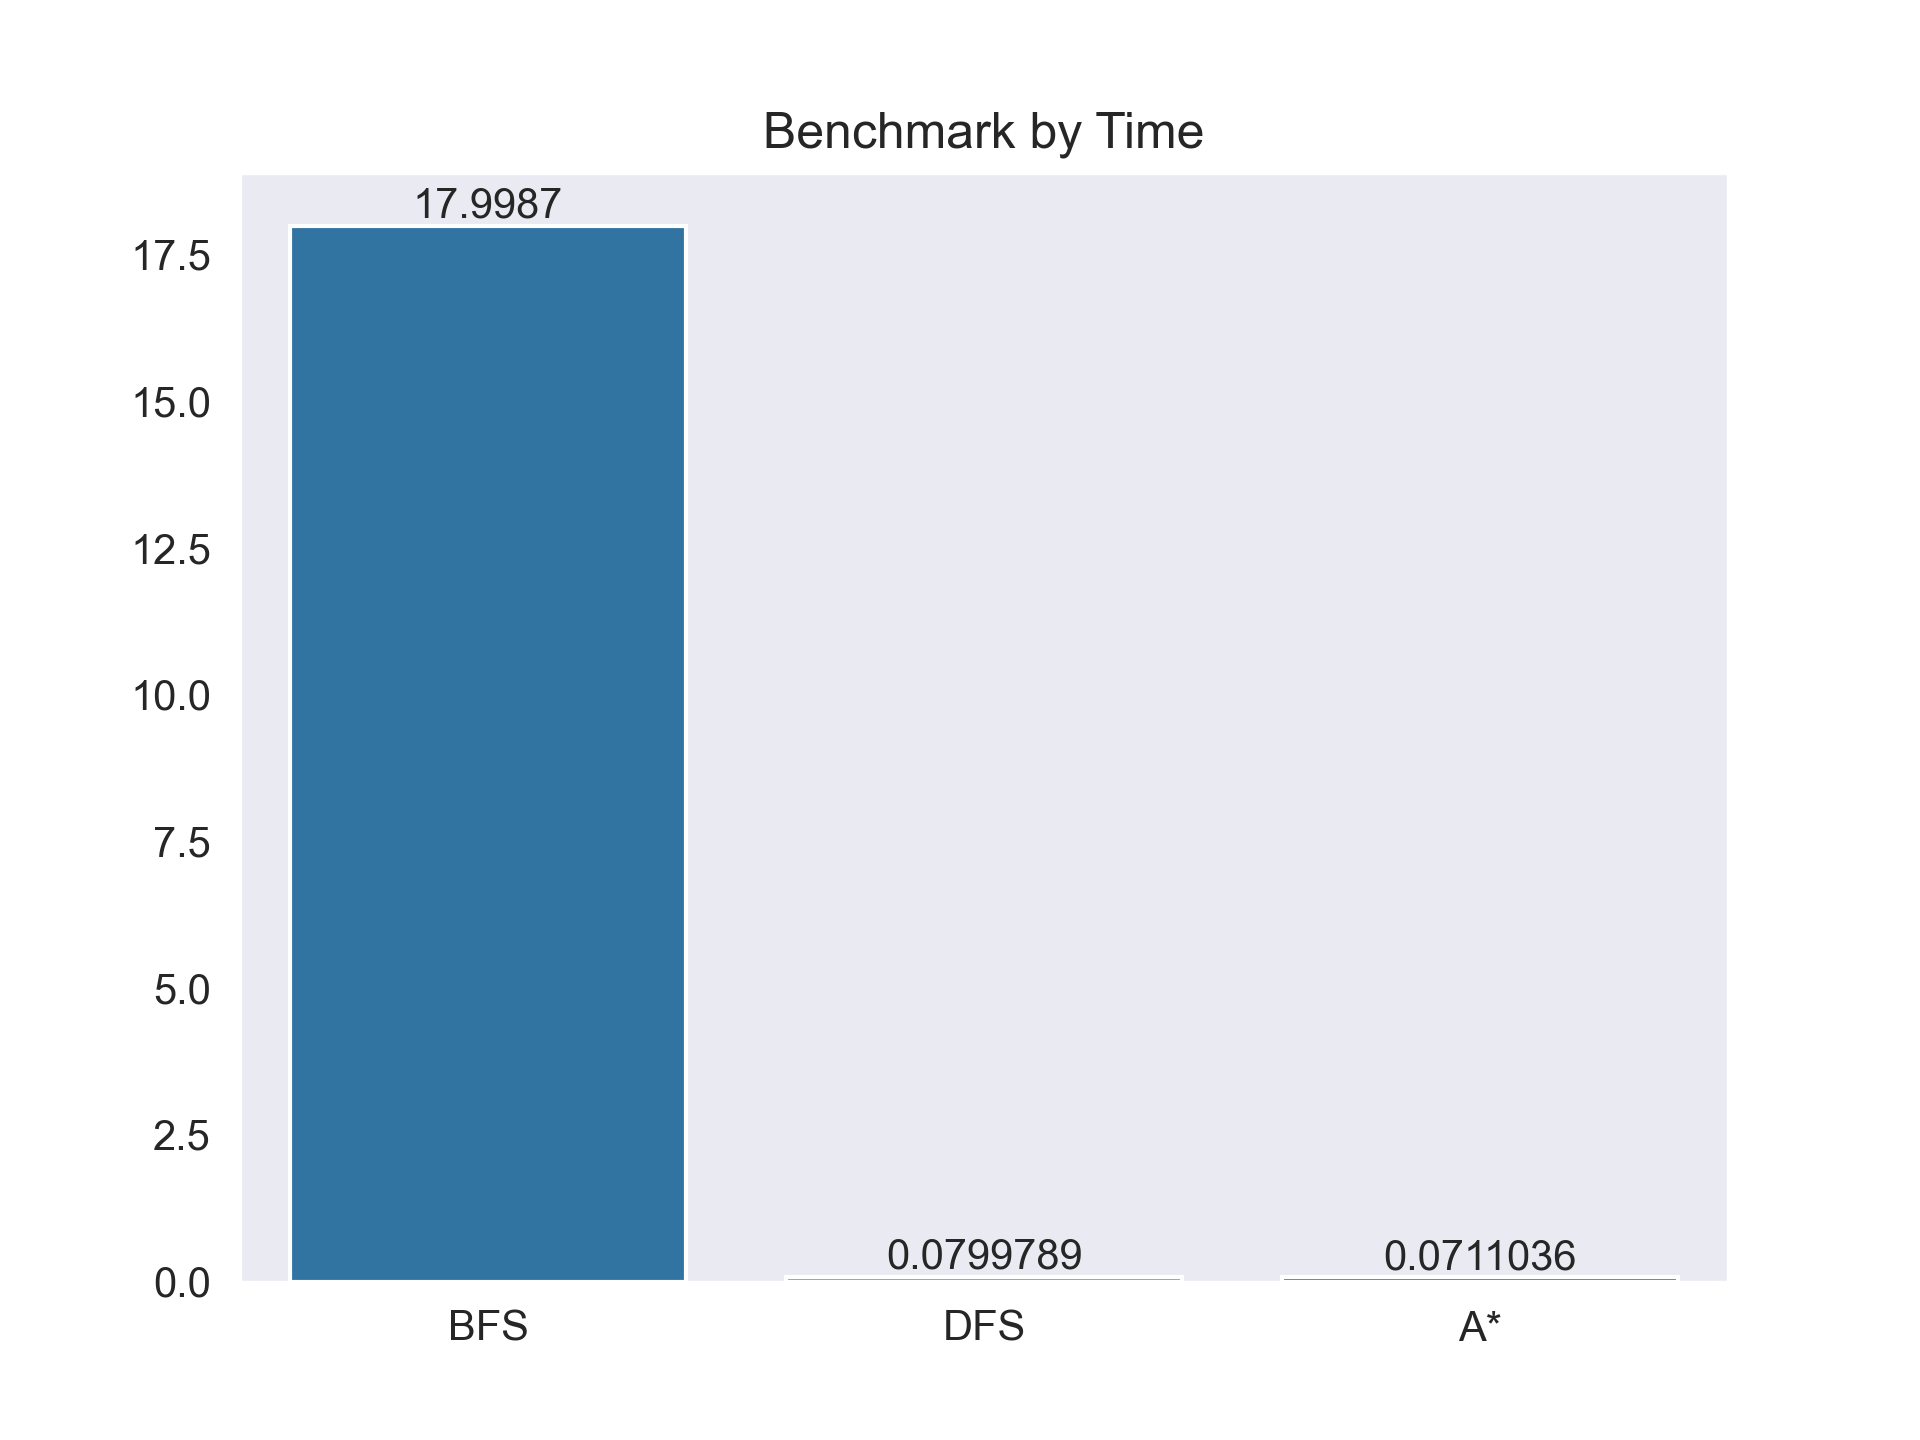
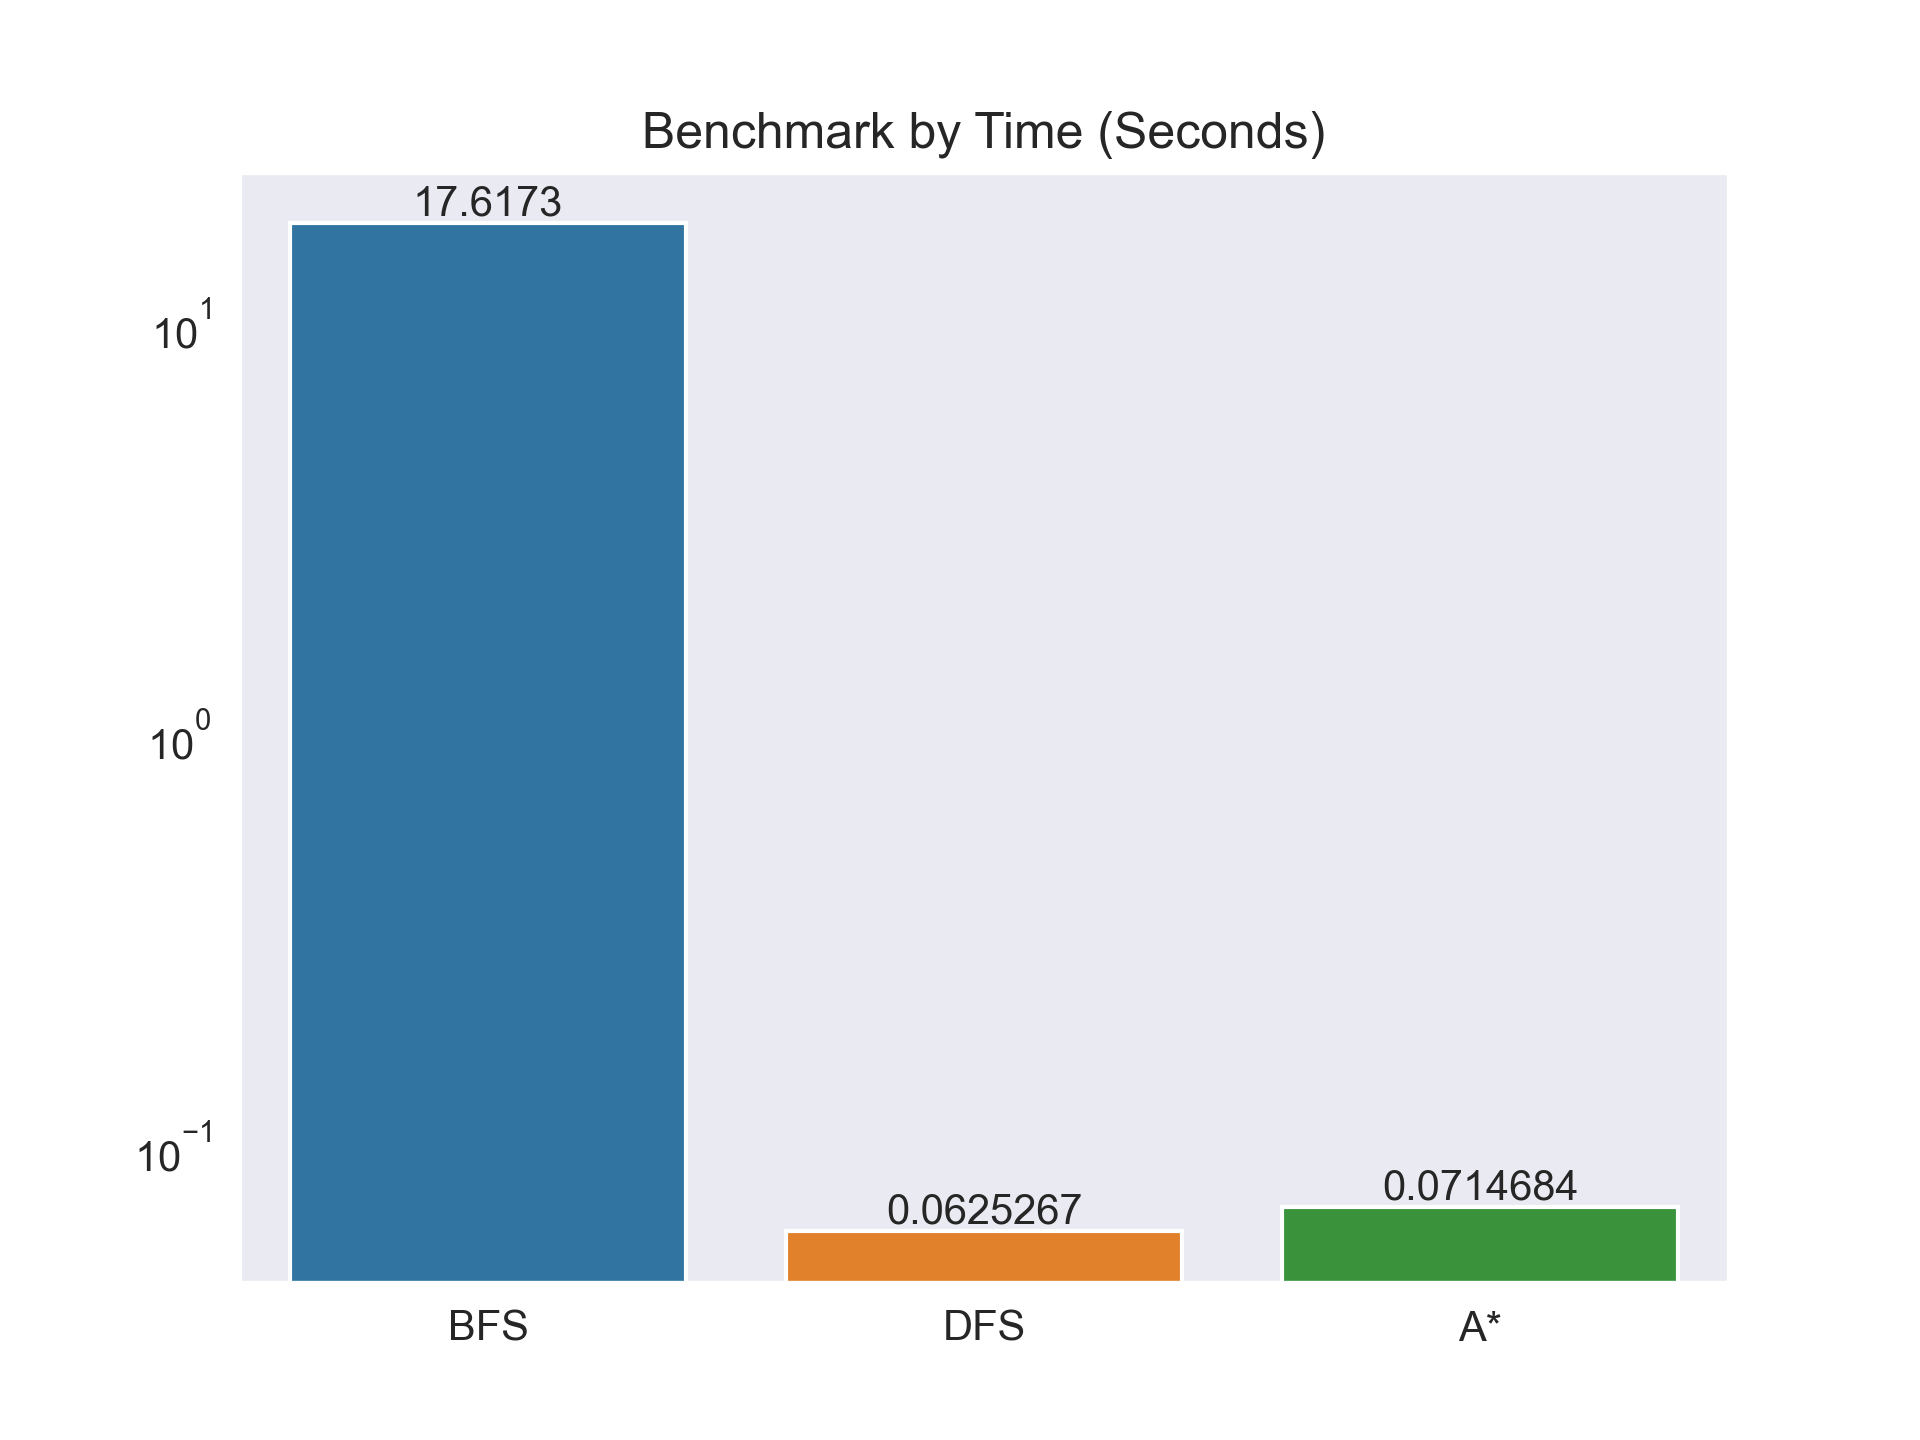
Log scale update

diff --git a/play.py b/play.py
@@ -15,10 +15,11 @@ def findAllFile(base):
             yield fullname
 
 # load game board and best result
-canvas, box, player, best = load_game('./level/demo.txt')
+canvas, box, player, best = load_game('./level/hard3.txt')
 
 # choose game mode
-game_mode = input('Enter 1 for manual, 2 for bfs, 3 for dfs, 4 for astar, 5 for benchmark:\n')
+print('Enter 1 for manual, 2 for bfs, 3 for dfs, 4 for astar, 5 for benchmark:')
+game_mode = input('Please enter: ')
 
 # manual gameplay
 if game_mode == '1':
@@ -144,12 +145,12 @@ if game_mode == '5':
 
     sns.set_style("dark")
     ax_1 = sns.barplot(x=list(dic_push.keys()),y=list(dic_push.values()))
-    ax_1.set_title('Benchmark by Push')
+    ax_1.set_title('Benchmark by Push (Num of times)')
     ax_1.bar_label(ax_1.containers[0])
     plt.savefig("plot_PUSH.png", dpi=300)
     plt.close()
-    ax_2 = sns.barplot(x=list(dic_time.keys()),y=list(dic_time.values()))
-    ax_2.set_title('Benchmark by Time')
+    ax_2 = sns.barplot(x=list(dic_time.keys()),y=list(dic_time.values()), log = True)
+    ax_2.set_title('Benchmark by Time (Seconds)')
     ax_2.bar_label(ax_2.containers[0])
     plt.savefig("plot_TIME.png", dpi=300)
     plt.close()
